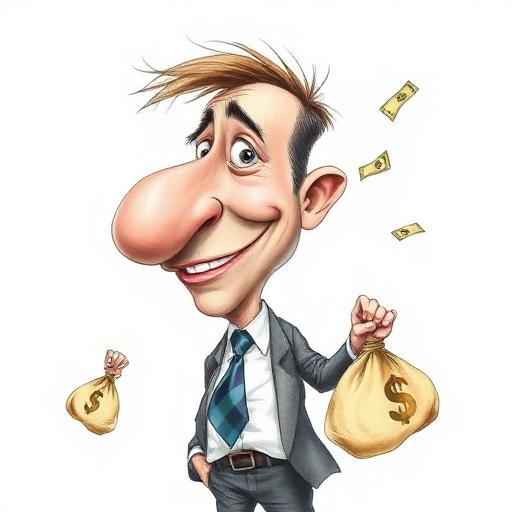
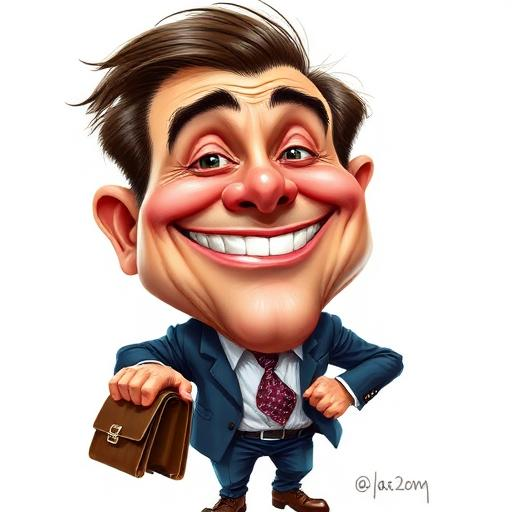
Changes

diff --git a/supabase/functions/generate-video/index.ts b/supabase/functions/generate-video/index.ts
@@ -258,7 +258,7 @@ const STYLE_PROMPTS: Record<string, string> = {
   "3d-pixar": `Cinematic 3D Animation. A stunning 3D cinematic animation-style render in the aesthetic of modern Disney-Pixar films. Surface Geometry: Squash and Stretch—appealing rounded shapes with soft exaggerated features, avoiding sharp angles unless part of mechanical design. Material Science: Subsurface Scattering—that Disney glow where light slightly penetrates the surface like real skin or wax, textures are stylized realism with soft fur, knit fabrics, or polished plastic. Lighting Design: Three-Point Cinematic—strong key light, soft fill light to eliminate harsh shadows, bright rim light (backlight) creating glowing silhouette separating from background. Eyes: The Soul Focal Point—large, highly detailed eyes with realistic specular highlights and deep iris colors making character feel sentient and emotive. Atmosphere: Volumetric Depth—light fog, dust motes, or god rays creating sense of physical space, background has soft bokeh blur keeping focus on subject. High-detail textures, expressive large eyes, soft rounded features. Vibrant saturated colors with high-end subsurface scattering on all surfaces. Rendered in 8k using Octane, shallow depth of field, whimsical softly blurred background. Masterpiece quality, charming, tactile, and highly emotive.`,
   claymation: `Handcrafted Digital Clay. A high-detail 3D claymation-style render. Material Texture: Matte & Tactile—surfaces must show subtle, realistic imperfections like tiny thumbprints, slight molding creases, and a soft matte finish that mimics polymer clay (like Sculpey or Fimo). Lighting: Miniature Macro Lighting—soft, high-contrast studio lighting that makes the subject look like a small physical object, includes Rim Lighting to make the edges glow and deep, soft-edge shadows. Proportions: Chunky & Appealing—thick, rounded limbs and exaggerated squashy features, avoid any sharp digital edges, everything should look like it was rolled between two palms. Atmosphere: Depth of Field—heavy background blur (bokeh) essential to sell the small toy scale, making the subject pop as the central focus. Color Palette: Saturated & Playful—bold, solid primary colors that look like they came straight out of a clay pack, avoiding complex gradients. 8k resolution, Octane Render, masterpiece quality.`,
   sketch: `Traditional graphite pencil sketch on textured paper with a gritty 'film noir' aesthetic. High contrast black and white rendering with dramatic, theatrical lighting—think deep shadows, stark highlights, and venetian blind patterns. Visible, aggressive pencil strokes, cross-hatching for shading, and intentional graphite smudges. Raw, hand-drawn quality showing the paper tooth. Cinematic composition reminiscent of a vintage detective graphic novel like Sin City.`,
-  caricature: `Editorial political caricature illustration in hand-painted watercolor + ink style. Characters have exaggerated facial features (big heads, expressive eyes, prominent noses, strong jawlines), with clean confident linework and subtle crosshatching. Soft watercolor washes and light gouache-like shading for volume—muted, natural tones (cool grays, desaturated blues, warm skin tones). Minimal airy background with lots of white negative space, few key props (chalkboard with handwritten notes, simple desk and chair) rendered loosely. Soft neutral lighting with gentle shadows on floor. Newspaper / magazine editorial cartoon feel, witty, polished, slightly satirical, high detail, UHD. No 3D, no anime, no vector flat design, no photorealism, no neon, no heavy texture overload.`,
+  caricature: `Humorous caricature illustration. Highly exaggerated facial features and distorted body proportions (oversized heads, tiny bodies) designed to emphasize personality quirks or famous traits. Stylized digital painting with expressive, thick brushwork and vibrant, slightly saturated colors. Playful, satirical, and expressive rendering. The look of high-quality political cartoons or MAD magazine cover art.`,
   storybook: `Whimsical storybook ink-and-wash style. Hand-drawn black ink outlines with visible rough sketch construction lines, slightly uneven strokes, and occasional line overlap (imperfect but intentional). Crosshatching and scribbly pen shading for depth and texture, especially in shadows and on fabric folds. Watercolor + gouache-like washes: layered, semi-opaque paint with soft gradients, subtle bloom, and paper texture showing through. Edges slightly loose (not crisp), with gentle paint bleed and dry-brush texture in places. Warm and cozy lighting with soft ambient bounce light and mild vignette. Cartoon-proportioned character design: slightly exaggerated features (large eyes, long limbs, expressive faces), but grounded in believable anatomy and posture. Background detailed but painterly: textured walls, props with sketchy detail, and atmospheric depth. Muted warm palette with complementary cool shadows. Subtle grain + ink flecks for a handmade print feel. Cinematic framing, shallow depth cues, soft focus in far background. Editorial illustration / indie animation concept art aesthetic. Charming, cozy, slightly messy, richly textured, high detail, UHD. No 3D render, no clean vector, no flat icon style, no anime/manga linework, no glossy neon gradients, no photorealism.`,
   crayon: `Cute childlike crayon illustration on clean white paper background. Waxy crayon / oil pastel scribble texture with visible stroke marks and uneven fill (messy on purpose). Simple rounded shapes, thick hand-drawn outlines, minimal details, playful proportions (big head, small body). Bright limited palette like orange + blue + yellow, rough shading and light smudges like real crayons on paper. Simple cheerful scene, lots of white space, friendly smiley faces. Looks like kindergarten drawing scanned into computer. High resolution. No vector, no clean digital painting, no 3D, no realism, no gradients, no sharp edges.`,
 };
